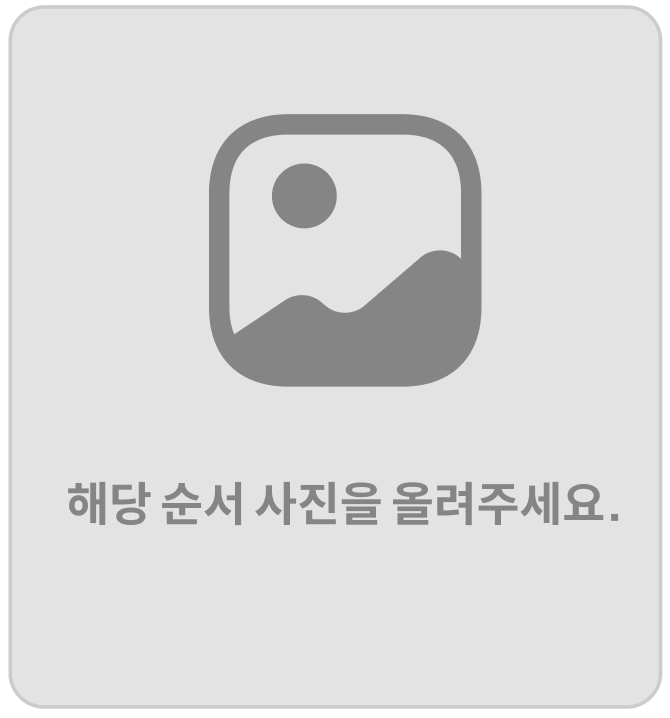
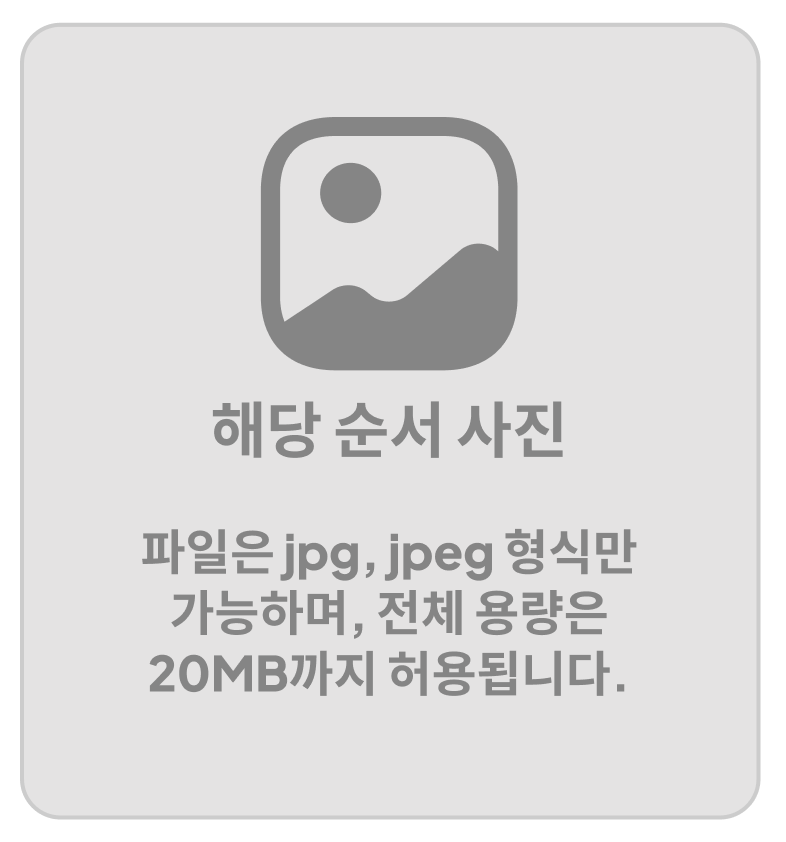
[이미지 용량 문구 추가]

Changed region(s): [[0.0, 0.0, 1.0, 1.0], [0.2687, 0.1226, 0.7164, 0.5515], [0.0896, 0.6128, 0.9254, 0.8273]]

diff --git a/Reciguard/src/components/Mainpage/Recommend.css b/Reciguard/src/components/Mainpage/Recommend.css
@@ -1,13 +1,13 @@
 .recommend-container {
     background-color: #3e5944;
-    padding: 20px;
+    padding: 30px;
     text-align: center;
     border-radius: 10px;
     display: flex;
     flex-direction: column;
     align-items: center;
     justify-content: center;
-    margin: 0 auto;
+    margin: 10px 50px;
 }
 
 .recommend-tit {
@@ -20,7 +20,7 @@
     width:37px;
     height:42px;
     position: relative;
-    top:40px;
+    top:43px;
     right:20px;
 }
 

diff --git a/Reciguard/src/components/AllRecipe/RecipeList.css b/Reciguard/src/components/AllRecipe/RecipeList.css
@@ -85,7 +85,7 @@
 .tab-btn.active::after {
     content: "";
     display: block;
-    width: 230px; /* 밑줄 길이를 요소 너비의 130%로 설정 */
+    width: 240px;
     height: 3px;
     background-color: #3e5944;
     position: absolute;

diff --git a/Reciguard/src/components/LoginSignup/Rightpanel2.css b/Reciguard/src/components/LoginSignup/Rightpanel2.css
@@ -144,7 +144,7 @@
     display: flex;
     margin-top: 1px;
     line-height: 2.5;
-    margin-left: 10px;
+    margin-left: -5px;
 }
 
 .checkbox-input {

diff --git a/Reciguard/src/components/Mypage/AlleUpdate.css b/Reciguard/src/components/Mypage/AlleUpdate.css
@@ -66,5 +66,5 @@
     font-weight: bolder;
     border: none;
     border-radius: 5px;
-    margin: 25px 0px 0px 640px;
+    margin: 25px 0px 0px 680px;
 }
